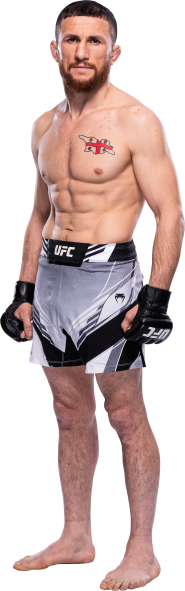
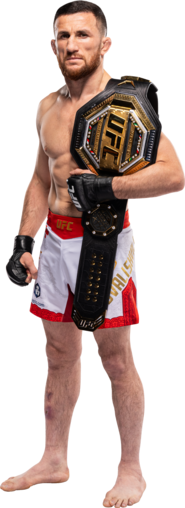
UFC 323: Dvalishvili vs. Yan 2
UFC 323: Dvalishvili vs. Yan 2
Database Update

diff --git a/pages/octagoniq.html b/pages/octagoniq.html
@@ -963,36 +963,37 @@
 
     <div id="myModal" class="modal">
         <div class="modal-content">
-            <span class="close">&times;</span>
+            <p>Select a Bout (UFC 323: Dvalishvili vs. Yan 2):</p>
+            <button id="fight1">Merab Dvalishvili vs. Petr Yan</button>
+            <button id="fight2">Alexandre Pantoja vs. Joshua Van</button>
+            <button id="fight3">Brandon Moreno vs. Tatsuro Taira</button>
+            <button id="fight4">Henry Cejudo vs. Payton Talbott</button>
+            <button id="fight5">Jan Blachowicz vs. Bogdan Guskov</button>
+            <button id="fight6">Grant Dawson vs. Manuel Torres</button>
+            <button id="fight7">Terrance McKinney vs. Chris Duncan</button>
+            <button id="fight8">Maycee Barber vs. Karine Silva</button>
+            <button id="fight9">Nazim Sadykhov vs. Fares Ziam</button>
+            <button id="fight10">Marvin Vettori vs. Brunno Ferreira</button>
+            <button id="fight11">Edson Barboza vs. Jalin Turner</button>
+            <button id="fight12">Iwo Baraniewski vs. Ibo Aslan</button>
+            <button id="fight13">Mansur Abdul-Malik vs. Antonio Trocoli</button>
+            <button id="fight14">Muhammad Naimov vs. Mairon Santos</button>
             <p>Select a Bout (UFC Fight Night: Tsarukyan vs. Hooker):</p>
             <button id="fight1">Arman Tsarukyan vs. Dan Hooker</button>
             <button id="fight2">Belal Muhammad vs. Ian Machado Garry</button>
             <button id="fight3">Volkan Oezdemir vs. Alonzo Menifield</button>
             <button id="fight4">Jack Hermansson vs. Myktybek Orolbai</button>
-            <button id="fight5">Serghei Spivac vs. Shamil Gaziev</button>
-            <button id="fight6">Alex Perez vs. Asu Almabayev</button>
+            <button id="fight5">Waldo Cortes-Acosta vs. Shamil Gaziev</button>
+            <button id="fight6">Tagir Ulanbekov vs. Kyoji Horiguchi</button>
             <button id="fight7">Bogdan Grad vs. Luke Riley</button>
-            <button id="fight8">Abdul Rakhman Yakhyaev vs. Rafael Cerquiera</button>
-            <button id="fight9">Tagir Ulanbekov vs. Kyoji Horiguchi</button>
-            <button id="fight10">Bekzat Almakhan vs. Aleksandre Topuria</button>
-            <button id="fight11">Ismail Naurdiev vs. Ryan Loder</button>
-            <button id="fight12">Nurullo Aliev vs. Shem Rock</button>
-            <button id="fight13">Nicolas Dalby vs. Saygid Izagakhmaev</button>
+            <button id="fight8">Nicolas Dalby vs. Saygid Izagakhmaev</button>
+            <button id="fight9">Alex Perez vs. Asu Almabayev</button>
+            <button id="fight10">Abdul Rakhman Yakhyaev vs. Rafael Cerquiera</button>
+            <button id="fight11">Bekzat Almakhan vs. Aleksandre Topuria</button>
+            <button id="fight12">Ismail Naurdiev vs. Ryan Loder</button>
+            <button id="fight13">Nurullo Aliev vs. Shem Rock</button>
             <button id="fight14">Marek Bujlo vs. Denzel Freeman</button>
-            <p>Select a Bout (UFC 322: Della Maddalena vs. Makhachev):</p>
-            <button id="fight1">Jack Della Maddalena vs. Islam Makhachev</button>
-            <button id="fight2">Valentina Shevchenko vs. Zhang Weili</button>
-            <button id="fight3">Sean Brady vs. Michael Morales</button>
-            <button id="fight4">Leon Edwards vs. Carlos Prates</button>
-            <button id="fight5">Beneil Dariush vs. Benoit Saint Denis</button>
-            <button id="fight6">Bo Nickal vs. Rodolfo Vieira</button>
-            <button id="fight7">Roman Kopylov vs. Gregory Rodrigues</button>
-            <button id="fight8">Erin Blanchfield vs. Tracy Cortez</button>
-            <button id="fight9">Malcolm Wellmaker vs. Cody Haddon</button>
-            <button id="fight10">Kyle Daukaus vs. Gerald Meerschaert</button>
-            <button id="fight11">Pat Sabatini vs. Chepe Mariscal</button>
-            <button id="fight12">Angela Hill vs. Fatima Kline</button>
-            <button id="fight12">Viacheslav Borshchev vs. Matheus Camilo</button>
+            <span class="close">&times;</span>
         </div>
     </div>
 